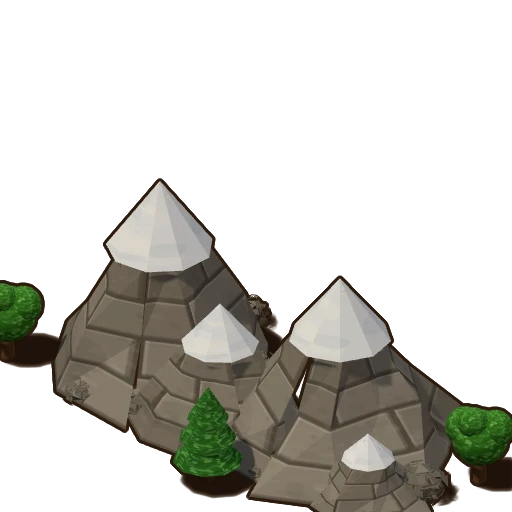
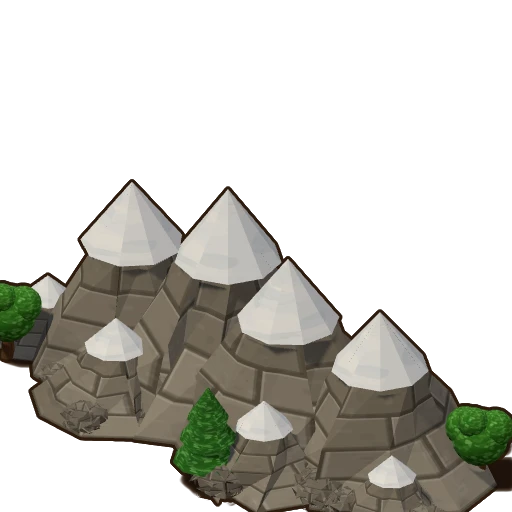
Carte : massifs montagneux et champs de dunes regroupés par un bruit de collines, crêtes 3D continues ; arrêt propre de la repeinture sur crédit épuisé
Claude-Session: https://claude.ai/code/session_016sqwKg526Dtdz16gGNqRWF

Changed region(s): [[0.0, 0.3438, 0.9688, 1.0], [0.9688, 0.875, 1.0, 0.9062]]

diff --git a/frontend/js/map.js b/frontend/js/map.js
@@ -327,10 +327,20 @@ function isOnMountainRange(x, y) {
 }
 
 // Check if tile has features based on noise, biome, and multi-tile formations
+// Bruit lisse à petite échelle (~7 cases) : régions de collines où les montagnes se regroupent en massifs
+const HILL_SCALE = 7;
+function hillNoise(x, y, seed = 4242) {
+  const gx = Math.floor(x / HILL_SCALE), gy = Math.floor(y / HILL_SCALE);
+  const fx = (x / HILL_SCALE) - gx, fy = (y / HILL_SCALE) - gy;
+  const sx = fx * fx * (3 - 2 * fx), sy = fy * fy * (3 - 2 * fy);
+  const n00 = seededRandom(gx, gy, seed), n10 = seededRandom(gx + 1, gy, seed), n01 = seededRandom(gx, gy + 1, seed), n11 = seededRandom(gx + 1, gy + 1, seed);
+  return (n00 * (1 - sx) + n10 * sx) * (1 - sy) + (n01 * (1 - sx) + n11 * sx) * sy;
+}
 function getTerrainType(x, y) {
   const biome = getBiome(x, y);
   const noise = seededRandom(x, y);
   const noise2 = seededRandom(x * 2, y * 2, 54321);
+  const hills = hillNoise(x, y);   // > 0.72 : région de collines (≈ 12 % des terres) où les montagnes forment des massifs
 
   // Check multi-tile terrain first (rivers, lakes, mountains)
   // These override normal terrain generation
@@ -356,16 +366,19 @@ function getTerrainType(x, y) {
 
   // Normal terrain generation (scattered features)
   if (biome === 'forest') {
-    if (noise > 0.94 && noise2 > 0.6) return { biome, feature: 'mountain' };
+    if (hills > 0.72 && noise > 0.42) return { biome, feature: 'mountain' };   // massifs : chaînes de 3 à 10 sommets qui se raccordent
+    if (hills > 0.66 && noise > 0.85) return { biome, feature: 'mountain' };   // contreforts isolés en bordure des massifs
     if (noise > 0.55 && noise2 > 0.4) return { biome, feature: 'tree' };
     if (noise < 0.02) return { biome, feature: 'water' };
   } else if (biome === 'desert') {
     if (noise > 0.95) return { biome, feature: 'ruins' };
+    if (hills > 0.7 && noise > 0.45) return { biome, feature: 'dunes' };   // champs de dunes raccordés
     if (noise > 0.88 && noise2 > 0.5) return { biome, feature: 'rocks' };
-    if (noise > 0.72 && noise2 > 0.6) return { biome, feature: 'dunes' };
+    if (noise > 0.8 && noise2 > 0.6) return { biome, feature: 'dunes' };
     if (noise < 0.03) return { biome, feature: 'oasis' };
   } else if (biome === 'snow') {
-    if (noise > 0.92 && noise2 > 0.5) return { biome, feature: 'icemountain' };
+    if (hills > 0.72 && noise > 0.42) return { biome, feature: 'icemountain' };
+    if (hills > 0.66 && noise > 0.85) return { biome, feature: 'icemountain' };
     if (noise > 0.50 && noise2 > 0.35) return { biome, feature: 'snowtree' };
     if (noise < 0.03) return { biome, feature: 'frozen' };
   }

diff --git a/tools/render3d/53-map.js b/tools/render3d/53-map.js
@@ -55,10 +55,10 @@
     for (let i = 0; i < 3; i++) { const an = rnd() * Math.PI * 2, rr = r * (0.75 + rnd() * 0.35); P.rock(g, cx + Math.cos(an) * rr, cy + Math.sin(an) * rr, 0.45 + rnd() * 0.4, icy ? '#9aa6b4' : '#7d766a', icy); }
   }
   const RIDGE = {
-    '': [[0, 0, 1.25, 2.0], [0.85, 0.55, 0.7, 1.0]],
-    x: [[-1.15, 0.05, 1.1, 1.85], [0.95, -0.1, 1.05, 1.65], [-0.1, 0.35, 0.8, 1.15], [1.9, 0.5, 0.55, 0.7]],
-    y: [[0.05, -1.15, 1.1, 1.85], [-0.1, 0.95, 1.05, 1.65], [0.35, -0.1, 0.8, 1.15], [0.5, 1.9, 0.55, 0.7]],
-    xy: [[-0.95, -0.7, 1.15, 1.9], [0.85, -0.95, 1.0, 1.65], [0.25, 0.85, 1.05, 1.5], [-0.75, 0.95, 0.75, 1.05], [1.4, 0.6, 0.6, 0.8]]
+    '': [[0, 0, 1.25, 2.0], [0.8, 0.6, 0.75, 1.05], [-0.75, 0.55, 0.6, 0.8]],
+    x: [[-1.5, 0.05, 1.05, 1.7], [-0.5, -0.15, 1.1, 1.95], [0.5, 0.1, 1.05, 1.75], [1.5, -0.05, 1.0, 1.55], [-1.0, 0.75, 0.65, 0.8], [0.9, 0.8, 0.6, 0.75], [2.2, 0.5, 0.5, 0.6], [-2.2, 0.4, 0.5, 0.6]],
+    y: [[0.05, -1.5, 1.05, 1.7], [-0.15, -0.5, 1.1, 1.95], [0.1, 0.5, 1.05, 1.75], [-0.05, 1.5, 1.0, 1.55], [0.75, -1.0, 0.65, 0.8], [0.8, 0.9, 0.6, 0.75], [0.5, 2.2, 0.5, 0.6], [0.4, -2.2, 0.5, 0.6]],
+    xy: [[-1.1, -0.9, 1.1, 1.85], [0.0, -1.3, 1.0, 1.65], [1.1, -0.8, 1.05, 1.7], [-1.2, 0.3, 1.0, 1.6], [0.1, 0.0, 1.2, 2.1], [1.2, 0.4, 1.0, 1.6], [-0.6, 1.3, 0.9, 1.3], [0.7, 1.4, 0.85, 1.2], [1.9, -0.2, 0.55, 0.7], [-1.9, 1.0, 0.55, 0.7]]
   };
   function mountain(g, icy, variant = '') {
     const peaks = RIDGE[variant] || RIDGE[''];
